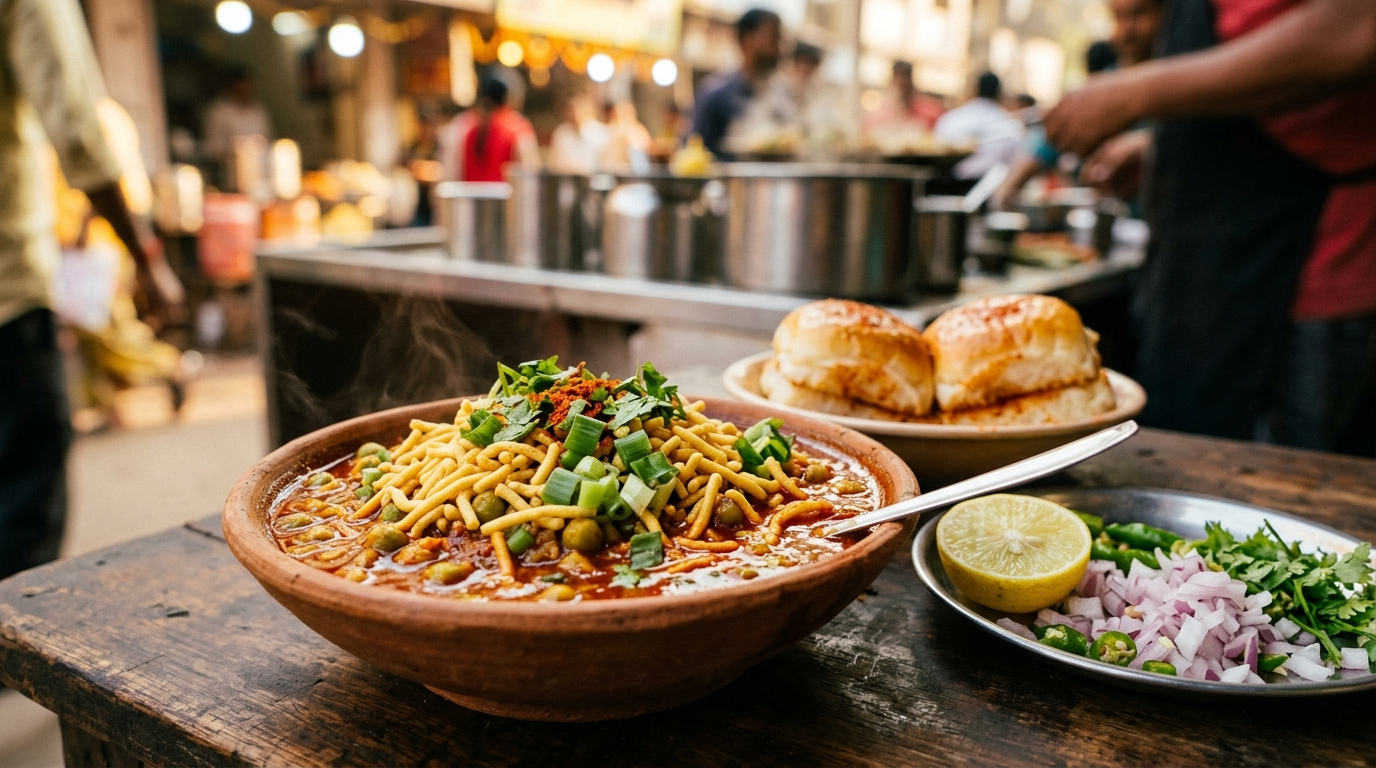
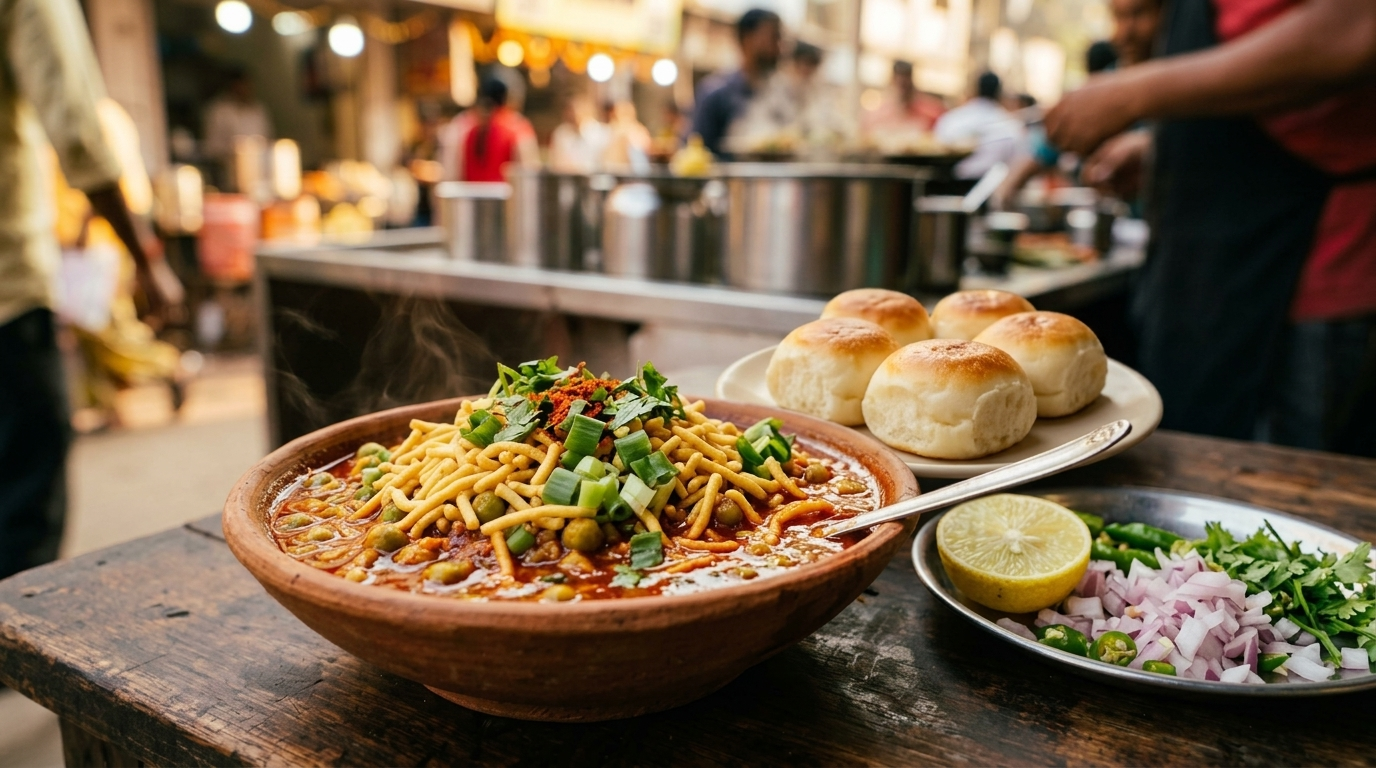
Update food images using reference: regenerate hero image with authentic round Sev Usal pav and add original authentic pav studio asset

diff --git a/menu.html b/menu.html
@@ -274,7 +274,7 @@
               <span class="veg-symbol"></span>
               <span class="item-category-tag">BAKERY FRESH</span>
             </div>
-            <img src="assets/special_sev_usal_pav.jpg" alt="Special Round Pav for Jay Mahakali Sev Usal" style="width: 100%; height: 160px; object-fit: cover; border-radius: 8px; margin-bottom: 0.8rem; border: 2px solid var(--retro-dark);" loading="lazy">
+            <img src="assets/authentic_pav.jpg" alt="Special Round Pav for Jay Mahakali Sev Usal" style="width: 100%; height: 160px; object-fit: cover; border-radius: 8px; margin-bottom: 0.8rem; border: 2px solid var(--retro-dark);" loading="lazy">
             <h3 class="menu-item-title">Special Round Pav (Bun)</h3>
             <p class="menu-item-desc">
               Authentic pillowy-soft round buns, baked specially to soak up boiling spicy Tari. Freshly delivered twice daily.

diff --git a/js/blog-data.js b/js/blog-data.js
@@ -108,7 +108,7 @@ const BLOG_POSTS = [
     date: "September 18, 2026",
     readTime: "5 min read",
     author: "Culinary Chronicles",
-    image: "assets/special_sev_usal_pav.jpg",
+    image: "assets/authentic_pav.jpg",
     excerpt: "While both dishes feature spicy gravy, legumes, and bread, Sev Usal and Misal Pav have completely distinct souls. Here is how Gujarat's pride stands apart.",
     metaTitle: "Sev Usal vs Misal Pav | Understanding the Key Differences",
     metaDesc: "Compare Gujarati Sev Usal with Maharashtrian Misal Pav. Discover differences in gravy, lentils, spices, and bread in this culinary breakdown.",
